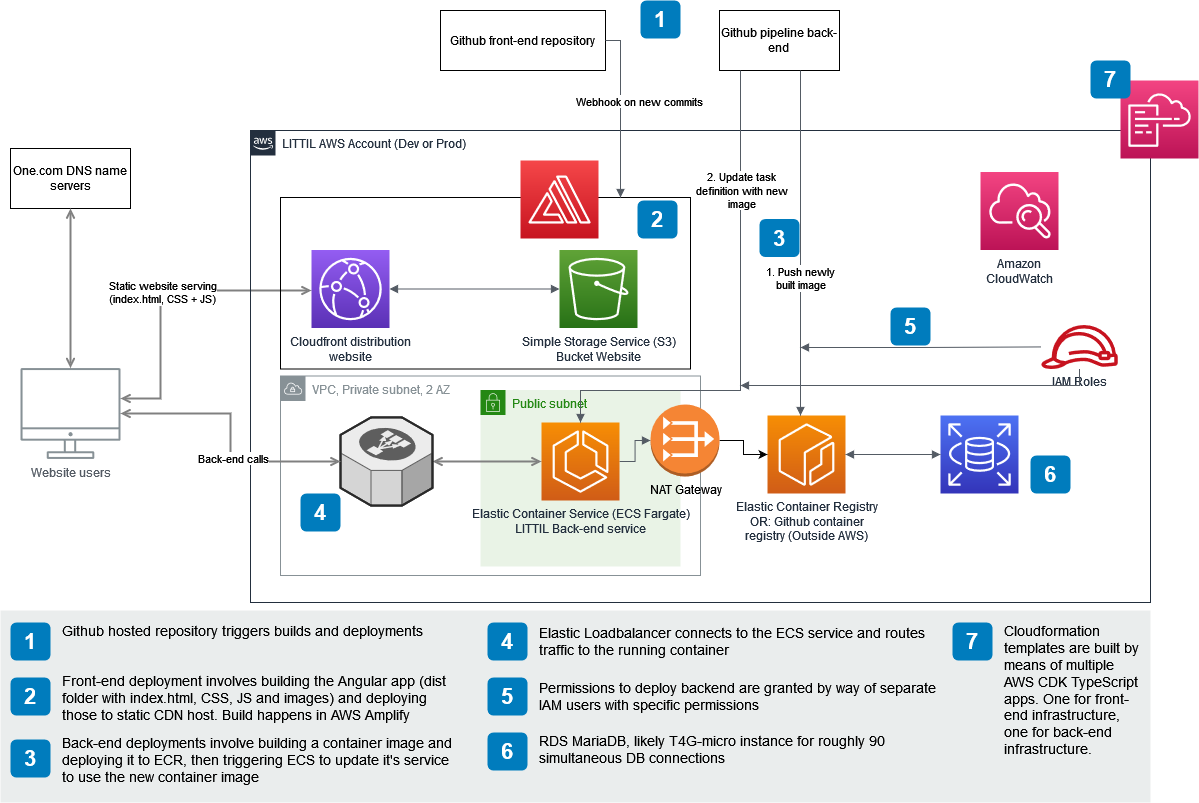
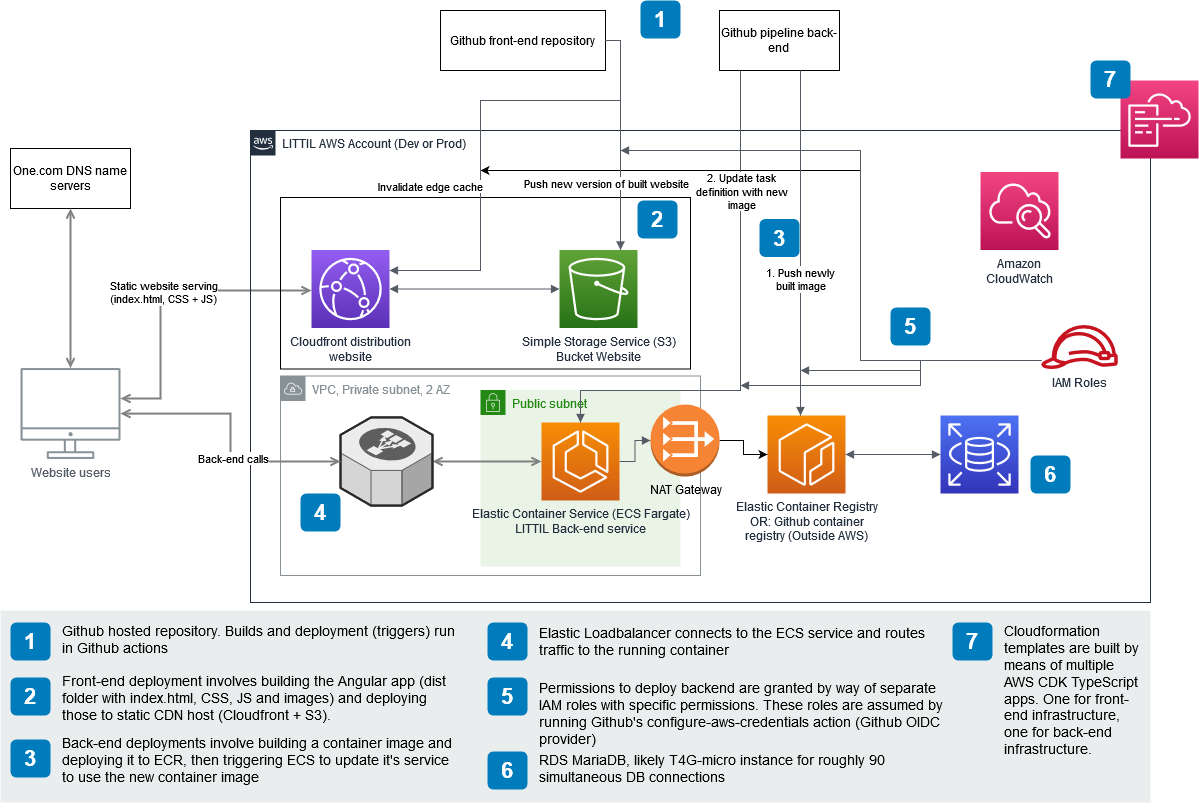
Update diagram with new decisions

diff --git a/docs/platform/infrastructure/index.md b/docs/platform/infrastructure/index.md
@@ -21,3 +21,6 @@ AWS Feedback 2022-09-13:
   - Use aws_ecs_patterns in TypeScript CDK, network details will be abstracted away
 - RDS (Relational Database Service) for persistence
   - EC2 instance T4G-micro, 2vCPU, 1GB, good for ~89 DB connections
+
+Decisions on start of implementation front-end infra 2022-09-24
+- Use Cloudfront & S3 for front-end. Amplify would use those anyway, and could be useful. But for now it adds unnecessary complexity.
